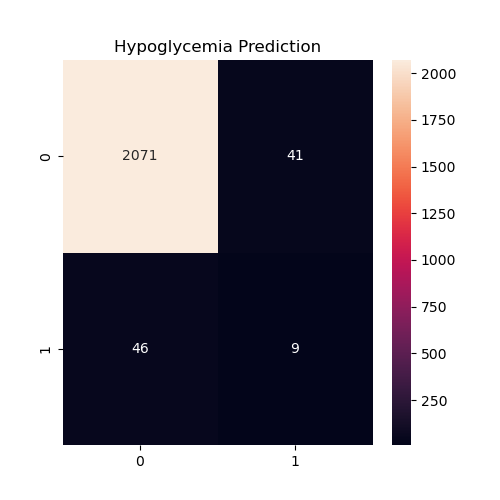
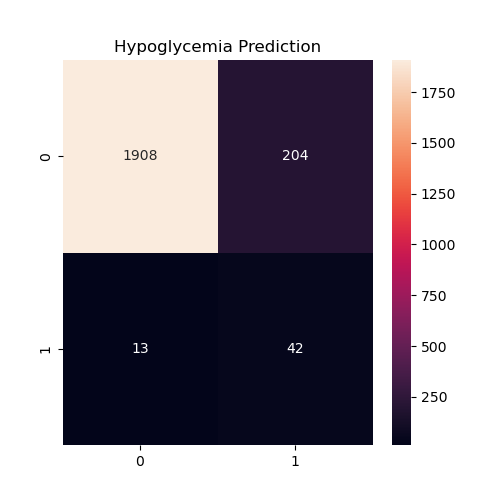
Version 5.3 - Improved hypoglycemia detection with SMOTE and Random Forest

diff --git a/main.py b/main.py
@@ -430,7 +430,8 @@ df_ml = df.dropna()
 #import
 from sklearn.model_selection import train_test_split
 from sklearn.linear_model import LinearRegression
-from sklearn.metrics import mean_absolute_error, recall_score
+from sklearn.metrics import mean_absolute_error
+from imblearn.over_sampling import SMOTE
 
 #3 create x and y
 X = df_ml[
@@ -449,7 +450,6 @@ X_train, X_test, y_train, y_test = train_test_split(
 
 #5 train model
 model = LinearRegression()
-
 model.fit(
     X_train,
     y_train
@@ -672,9 +672,13 @@ X_train, X_test, y_train, y_test = (
 from sklearn.ensemble import RandomForestClassifier
 clf = RandomForestClassifier(
     n_estimators=200,
-    class_weight="balanced",
-    random_state=42
+    class_weight="balanced_subsample",
+    random_state=42,
+    max_depth=12,
+    min_samples_leaf=5
 )
+sm = SMOTE(random_state=42,k_neighbors=3)
+X_train, y_train = sm.fit_resample(X_train, y_train)
 
 clf.fit(
     X_train,
@@ -748,6 +752,37 @@ from sklearn.metrics import (
     precision_score,
     f1_score
 )
+
+df["delta1"] = df["lag1"] - df["lag2"]
+
+df["delta2"] = df["lag2"] - df["lag3"]
+
+df["rolling_mean"] = (
+    df[["lag1","lag2","lag3"]]
+    .mean(axis=1)
+)
+
+df["rolling_std"] = (
+    df[["lag1","lag2","lag3"]]
+    .std(axis=1)
+)
+
+df["minimum"] = (
+    df[["lag1","lag2","lag3"]]
+    .min(axis=1)
+)
+X = df[
+[
+    "lag1",
+    "lag2",
+    "lag3",
+    "delta1",
+    "delta2",
+    "rolling_mean",
+    "rolling_std",
+    "minimum"
+]
+]
 
 #DETAILED REPORT
 with open("output/report.txt", "w") as f:
@@ -828,5 +863,46 @@ with open("output/report.txt", "w") as f:
     f.write(f"Recall : "
     f"{recall_score(y_test,pred):.3f}\n")
 
+    f.write("\nVERSION 5.3\n")
+    f.write("=========================\n")
+    f.write(f"Accuracy : {acc*100:.2f} %\n")
+    f.write(f"Precision : "
+    f"{precision_score(y_test, pred):.2f}\n")
+    f.write(f"Recall : "f"{recall_score(y_test, pred):.2f}\n")
+    f.write(f"F1 Score : "
+    f"{f1_score(y_test, pred):.2f}\n")
+    cm = confusion_matrix(y_test, pred)
+
+    f.write("\nConfusion Matrix\n")
+    f.write("----------------\n")
+    f.write(str(cm))
+    f.write("\n")
+
+# Interpretation
+    tn, fp, fn, tp = cm.ravel()
+
+    f.write("\nInterpretation\n")
+    f.write("--------------\n")
+    f.write(f"Detected hypo events : {tp}\n")
+    f.write(f"Missed hypo events : {fn}\n")
+    f.write(f"False alarms : {fp}\n")
+    f.write(f"Detection Rate : "
+    f"{tp/(tp+fn)*100:.2f}%\n")
+
+    # Final insights
+    f.write("\nKey Findings\n")
+    f.write("------------\n")
+
+    f.write("Prediction error increases with "
+    "longer prediction horizons.\n")
+
+    f.write("Carbohydrate intake alone shows "
+    "weak correlation with glucose spikes.\n")
+
+    f.write("Hypoglycemia model successfully "
+    "detects most low glucose events.\n")
+
 print("Report saved successfully!")
+
+
 

diff --git a/progress.md b/progress.md
@@ -269,3 +269,28 @@ Outcome:
 Potential reduction in overall accuracy
 Hyperparameter balancing alone did not improve minority detection.
 
+## Version 5.3 – Improved Hypoglycemia Prediction Model
+
+### Objective
+Improve the hypoglycemia warning system by reducing missed low-glucose events and improving recall.
+
+### Changes Made
+- Switched to Random Forest Classifier.
+- Applied SMOTE oversampling to handle severe class imbalance.
+- Tuned model parameters:
+  - n_estimators = 200
+  - max_depth = 12
+  - min_samples_leaf = 5
+  - class_weight = "balanced_subsample"
+  - k_neighbors = 3 for SMOTE
+
+### Final Results
+
+Accuracy: **89.99%**
+
+Confusion Matrix:
+
+```text
+[[1908 204]
+ [  13  42]]
+

diff --git a/README.md b/README.md
@@ -1,0 +1,6 @@
+Hypoglycemia Warning Model
+
+Accuracy: 90.0%
+Recall for hypo events: 76%
+Precision for hypo events: 17%
+Detected 42 of 55 low-glucose episodes.